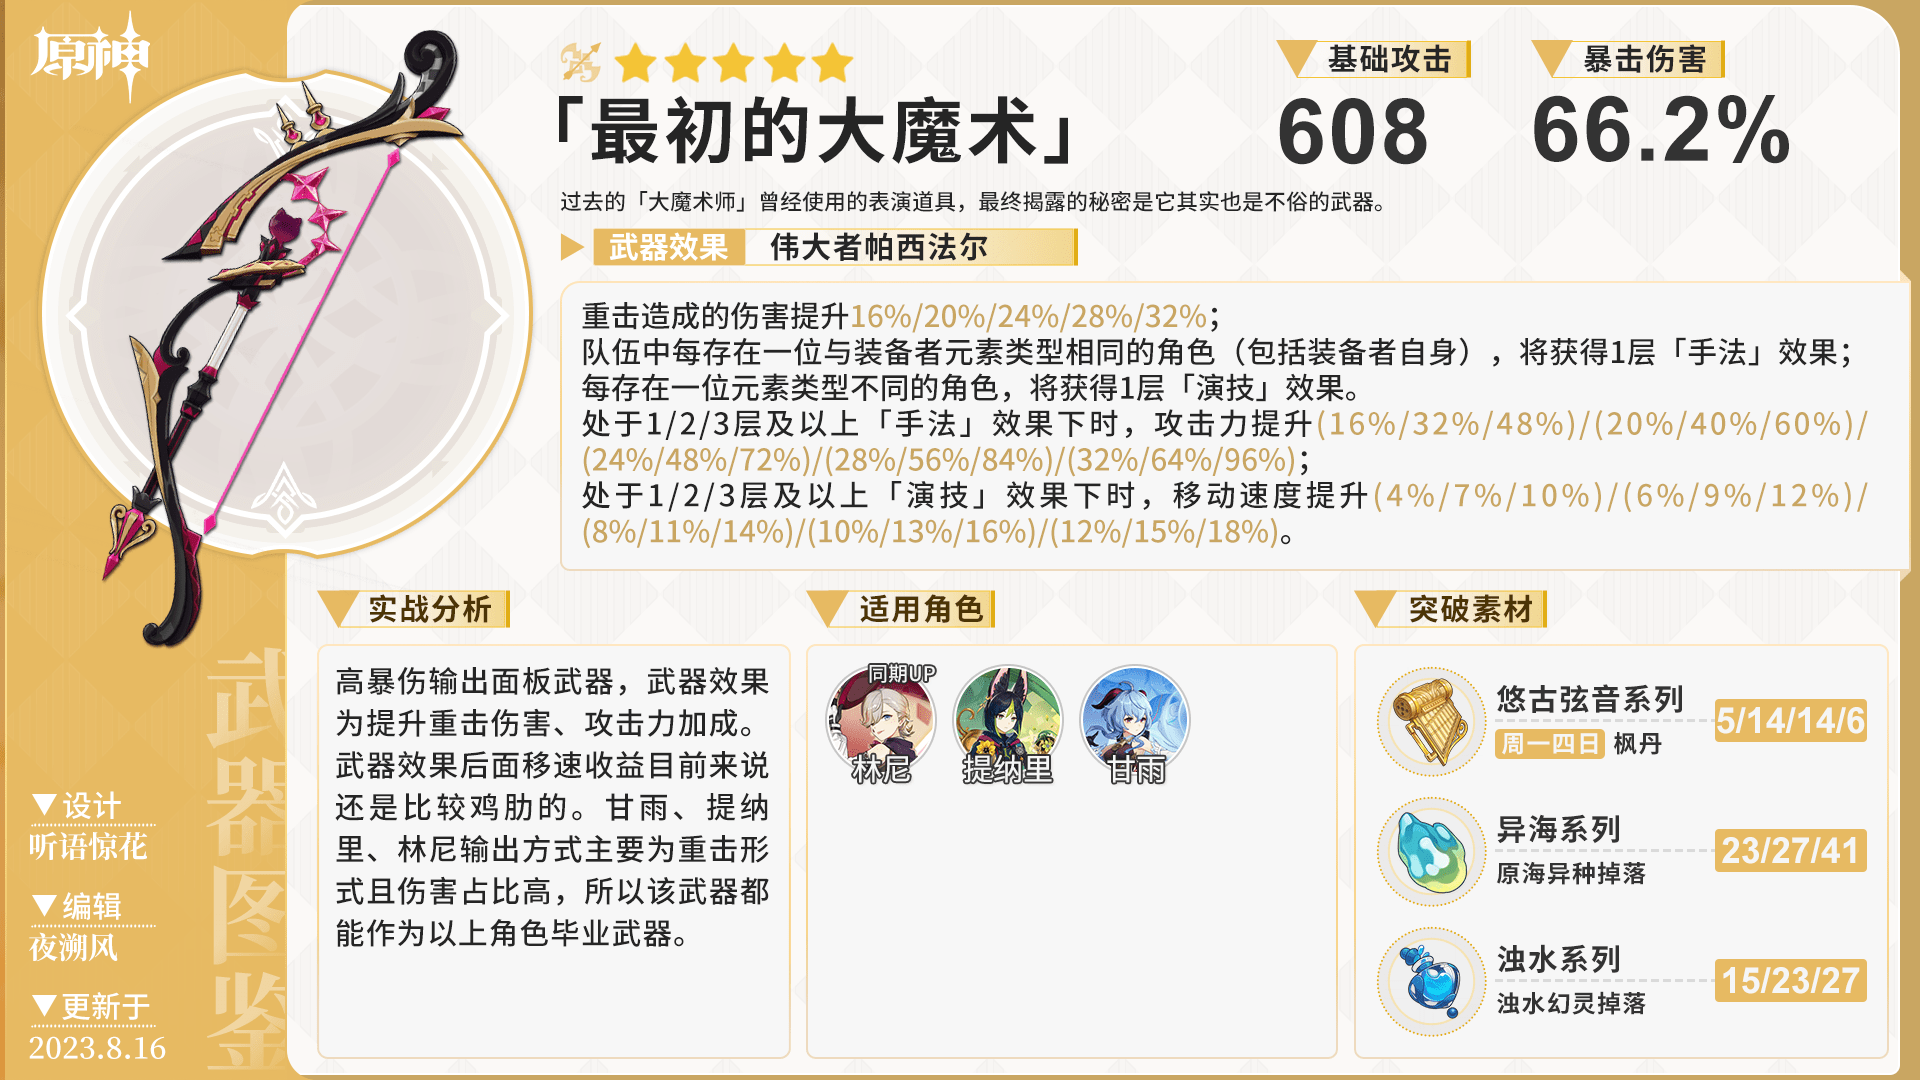
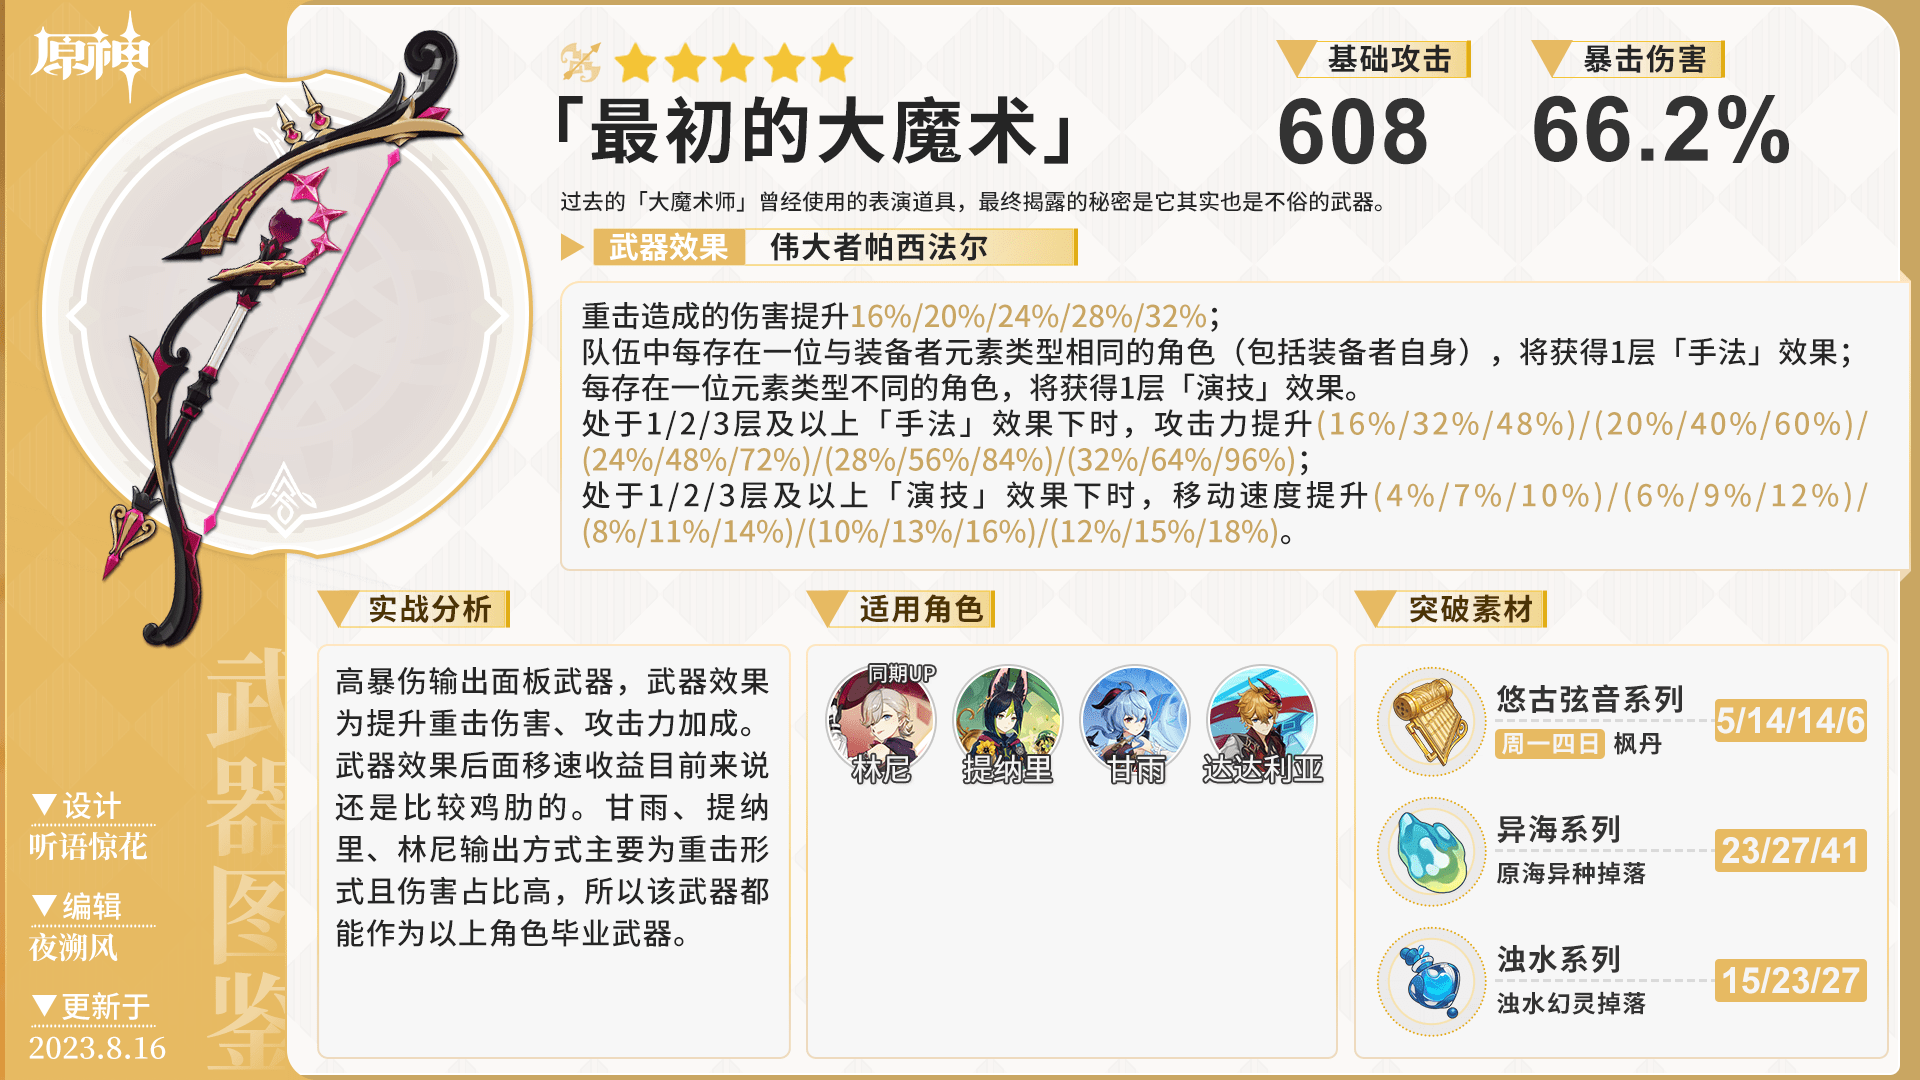
:sparkles: 更新4.0

Changed region(s): [[0.625, 0.6111, 0.6875, 0.7333]]

diff --git a/README.md b/README.md
@@ -3,13 +3,13 @@ Genshin-Atlas是一个主要由[`米游社@听语惊花`](https://bbs.mihoyo.com
 
 ## 目录结构
 - [x] 武器图鉴（更新至4.0）
-- [x] 角色材料（更新至3.8）
+- [x] 角色材料（更新至4.0）
 - [x] 七圣召唤卡牌（更新至3.6）
 - [x] 区域特产（更新至3.8）
-- [x] 圣遗物图鉴（更新至3.8）
+- [x] 圣遗物图鉴（更新至4.0）
 - [x] 原魔图鉴（更新至3.6，暂由[Csxylic](https://www.miyoushe.com/ys/accountCenter/postList?id=258229537)提供支持。）
 - [x] 食物图鉴（更新至3.8）
-- [x] 卡池图鉴（更新至3.7）
+- [x] 卡池图鉴（更新至3.8）
 
 ## TODO
 
